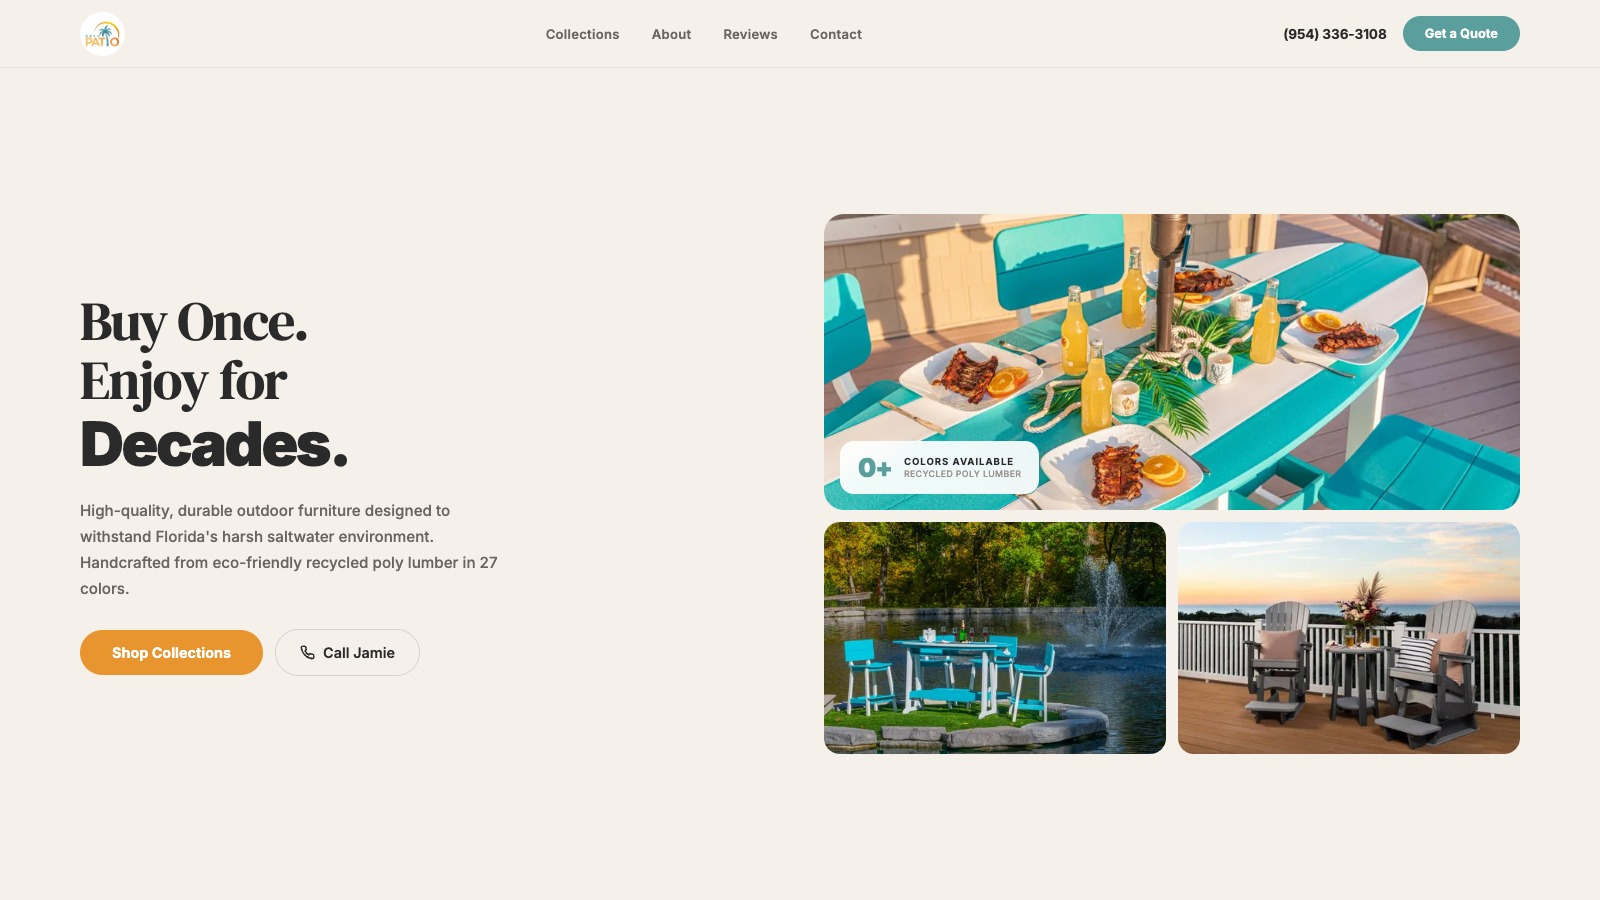
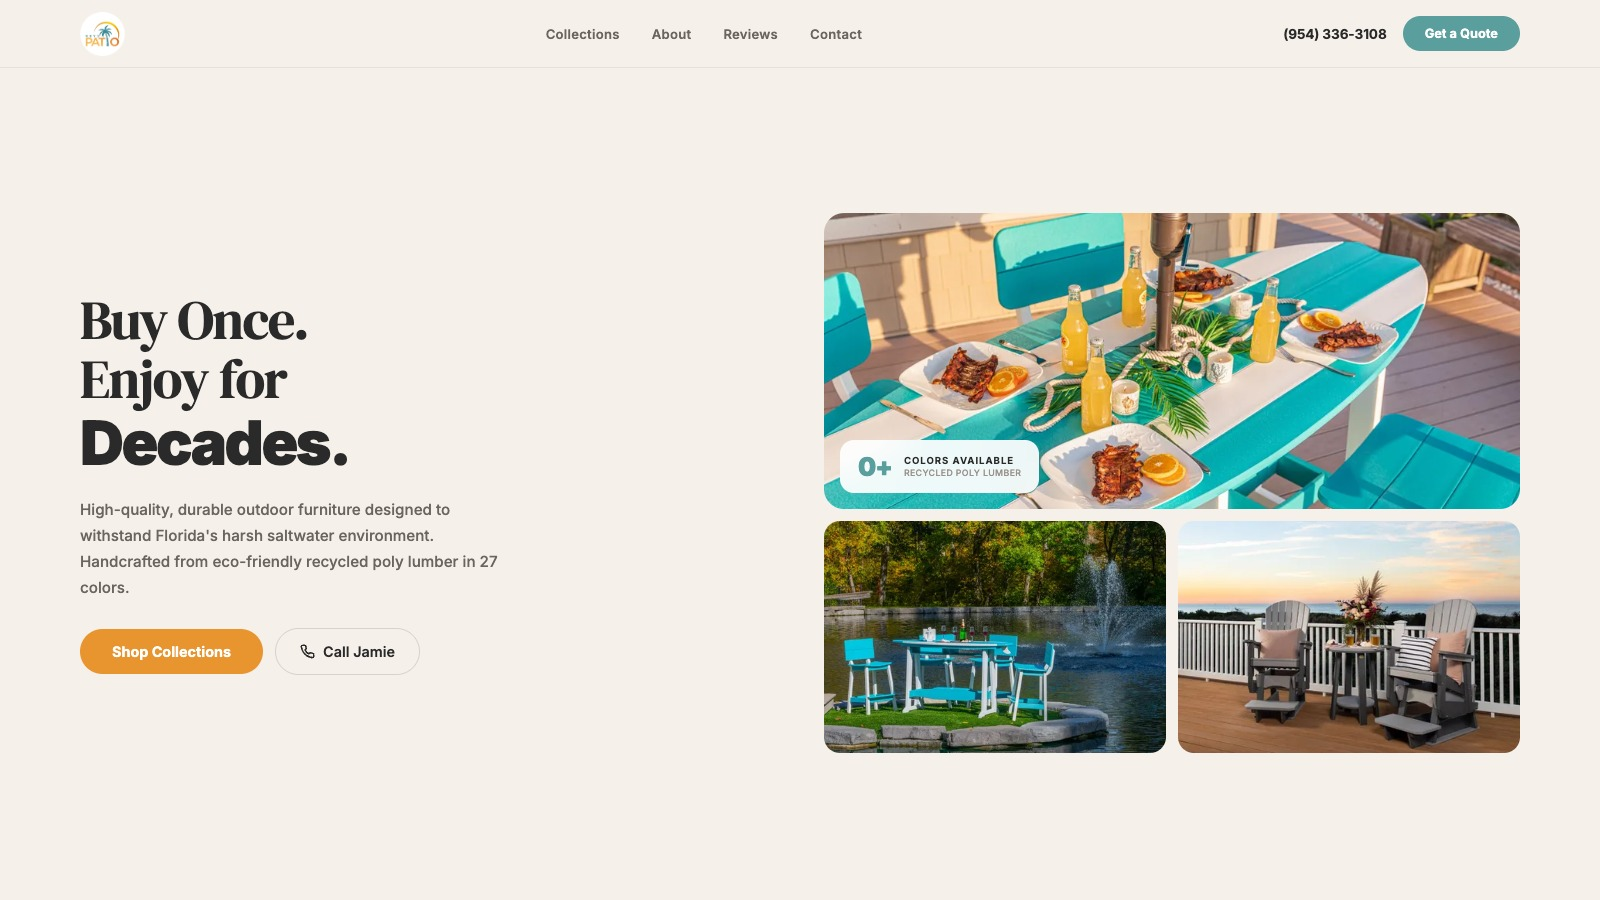
Tighten hero-to-stats gap on Keys Patio pitch

diff --git a/p/keys-patio-key-largo/index.html b/p/keys-patio-key-largo/index.html
@@ -87,7 +87,7 @@ nav{height:68px;background:var(--cream);display:flex;align-items:center;justify-
 .hero-badge-sub{font-size:.55rem;font-weight:500;color:var(--muted);letter-spacing:.04em;text-transform:uppercase}
 
 /* STATS */
-.stats{padding:32px clamp(24px,5vw,80px);display:flex;align-items:flex-start;gap:clamp(32px,6vw,80px)}
+.stats{padding:16px clamp(24px,5vw,80px) 32px;display:flex;align-items:flex-start;gap:clamp(32px,6vw,80px)}
 .stat{display:flex;flex-direction:column}
 .stat-num{font-family:'Inter',sans-serif;font-size:clamp(2rem,3.4vw,2.8rem);font-weight:900;color:var(--dark);letter-spacing:-.04em;line-height:1}
 .stat-num .accent{color:var(--teal)}
